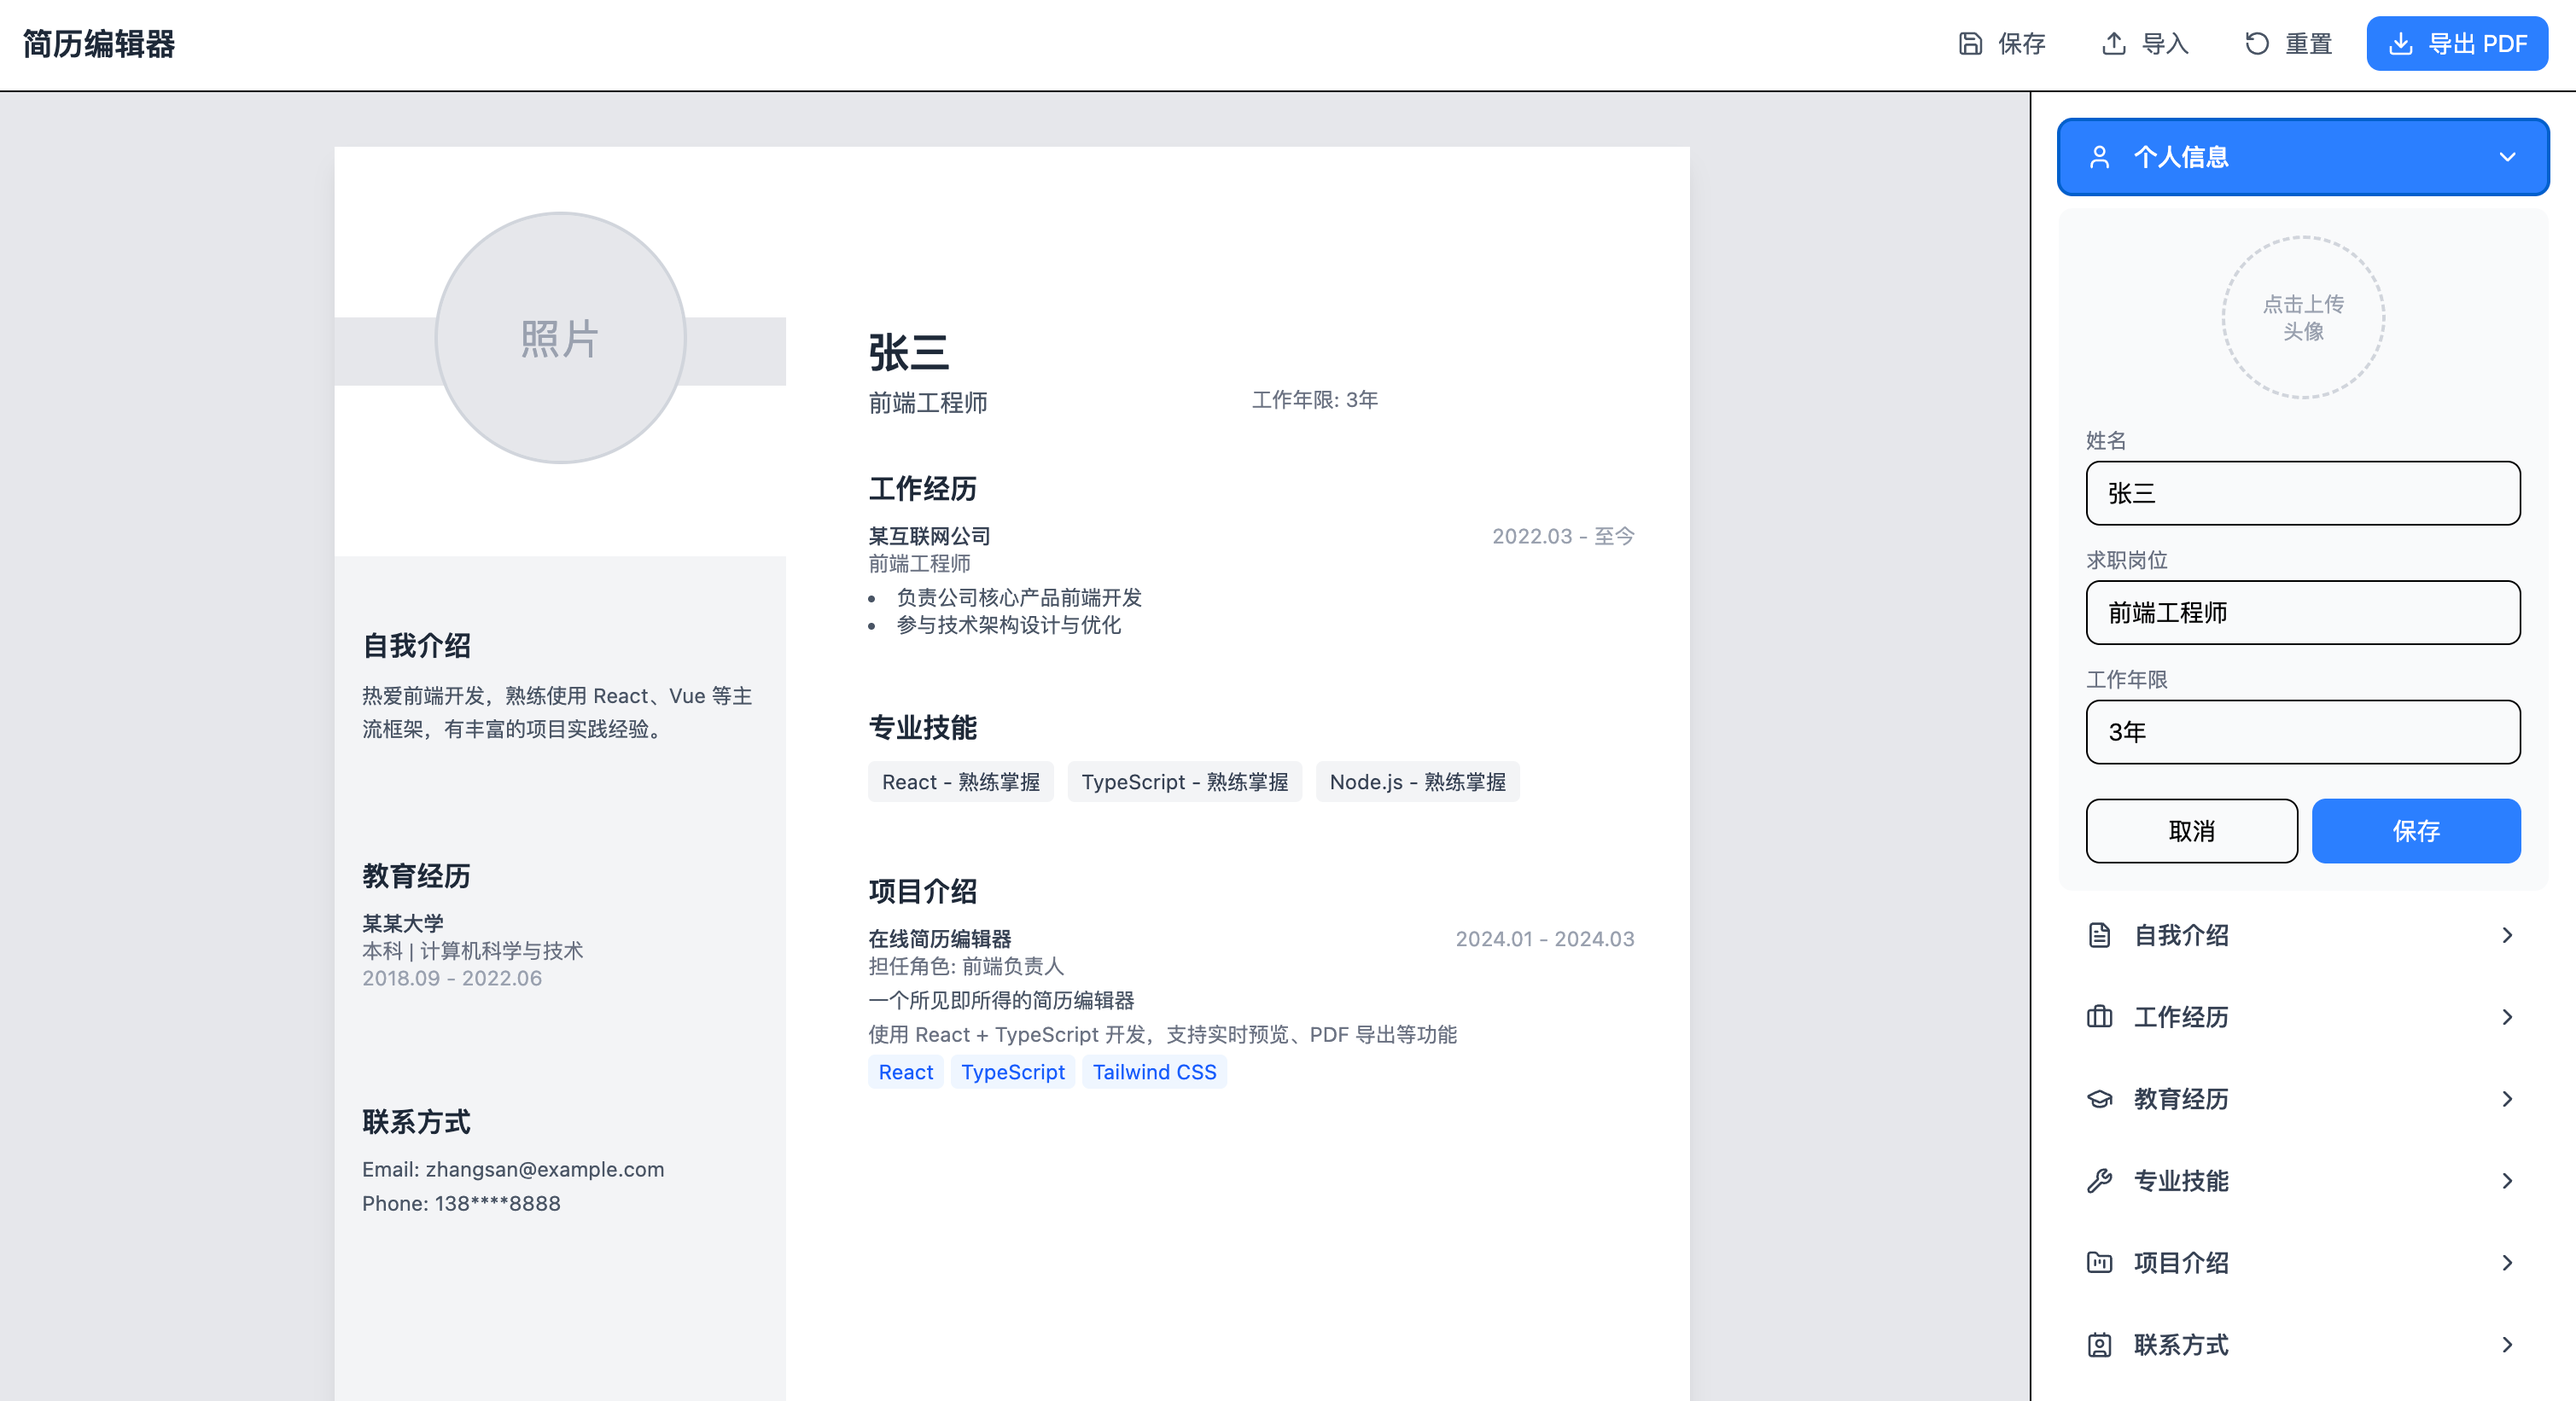
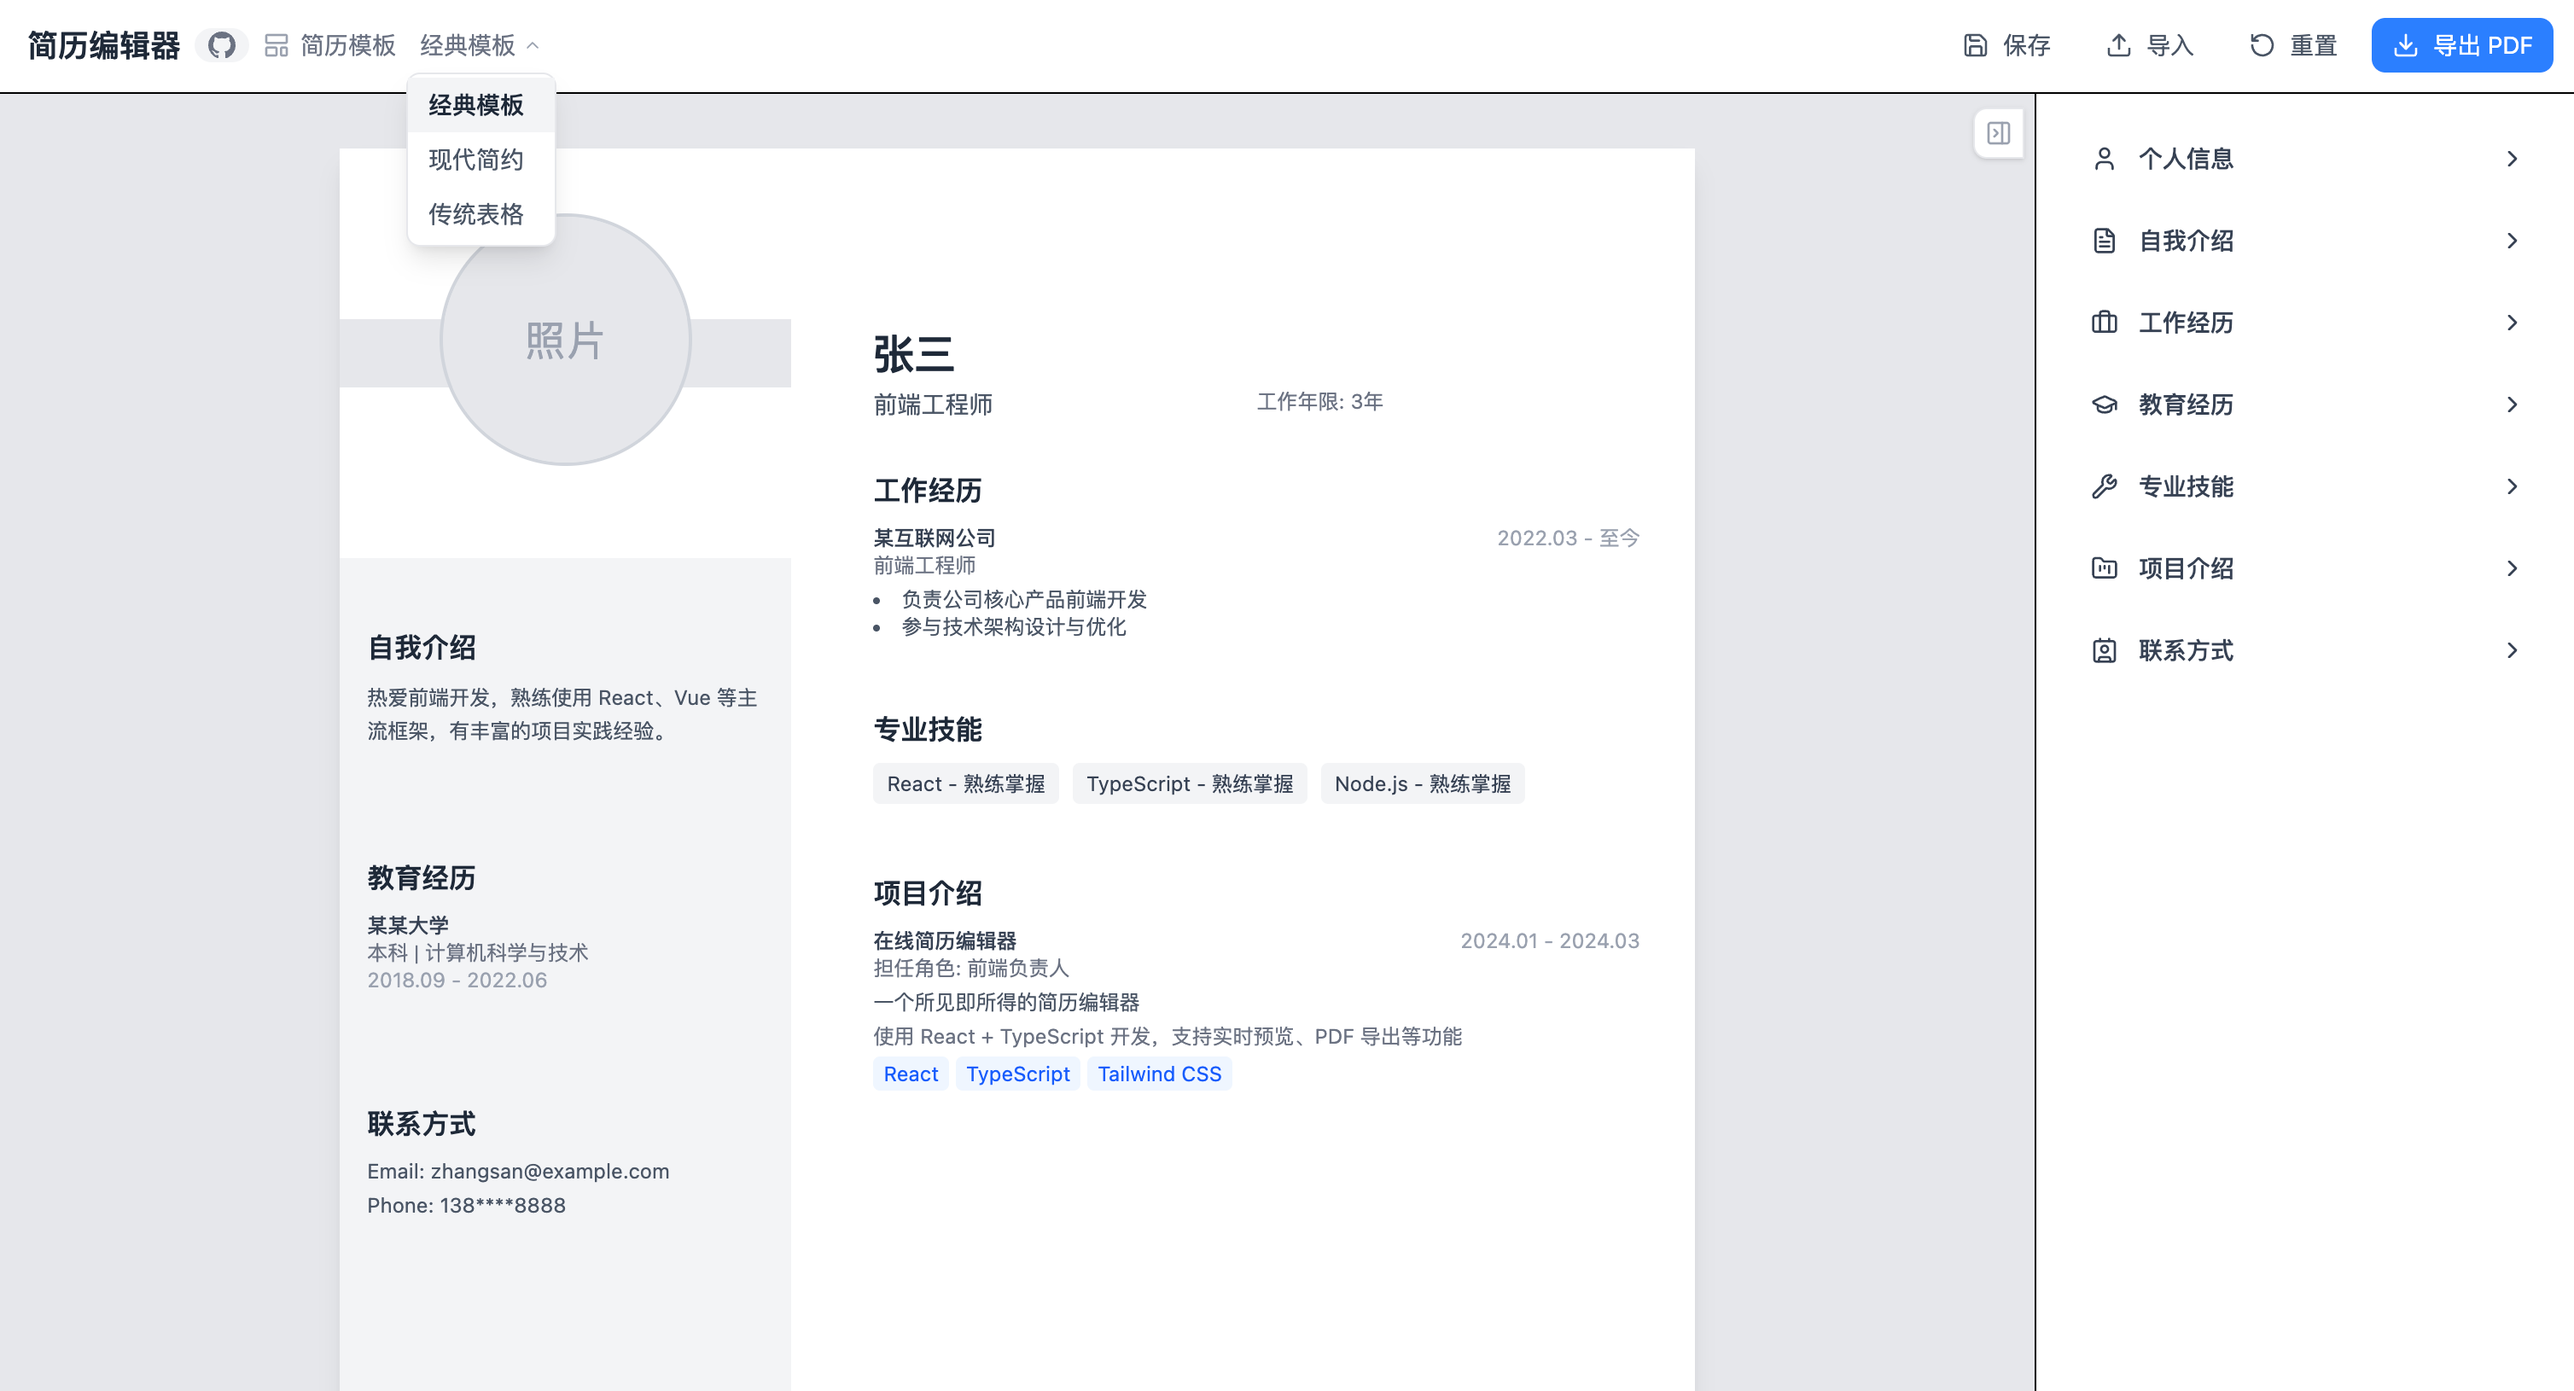
fix: 修改项目

diff --git a/src/templates/template-2/resumeConfig.ts b/src/templates/template-2/resumeConfig.ts
@@ -44,18 +44,6 @@ export const template2DefaultResume: ResumeData = {
         '参与代码审查和技术分享',
       ],
     },
-    {
-      id: 'default-exp-3',
-      period: '2019.03 - 2021.01',
-      company: '某创业公司',
-      position: '初级软件工程师',
-      responsibilities: [
-        '参与公司产品的开发和测试',
-        '编写和维护技术文档',
-        '学习和掌握新的技术',
-        '协助解决客户问题',
-      ],
-    },
   ],
   educations: [
     {

diff --git a/src/templates/template-1/resumeConfig.ts b/src/templates/template-1/resumeConfig.ts
@@ -43,17 +43,6 @@ export const template1DefaultResume: ResumeData = {
         '协助解决生产环境的技术问题',
       ],
     },
-    {
-      id: 'default-exp-3',
-      period: '2019.03 - 2020.02',
-      company: '某创业公司',
-      position: '实习生',
-      responsibilities: [
-        '协助完成公司官网和产品页面的开发',
-        '参与项目的代码重构和优化',
-        '学习并使用新的技术栈',
-      ],
-    },
   ],
   educations: [
     {

diff --git a/README.md b/README.md
@@ -4,6 +4,10 @@
 
 线上地址：[链接](https://dada-liu.github.io/resume-generator/)
 
+相关文章：
+1. [一张图 → 完整应用：我用 ClaudeCode 复刻了这个开发流程](https://dada-liu.github.io/#blog/ai-assisted-development)
+2. [使用 ClaudeCode 开发第二弹：进阶技巧与国内最佳大模型](https://dada-liu.github.io/#blog/claude-code-advanced)
+
 效果如下：
 
 ![](./websit-preview.png)
